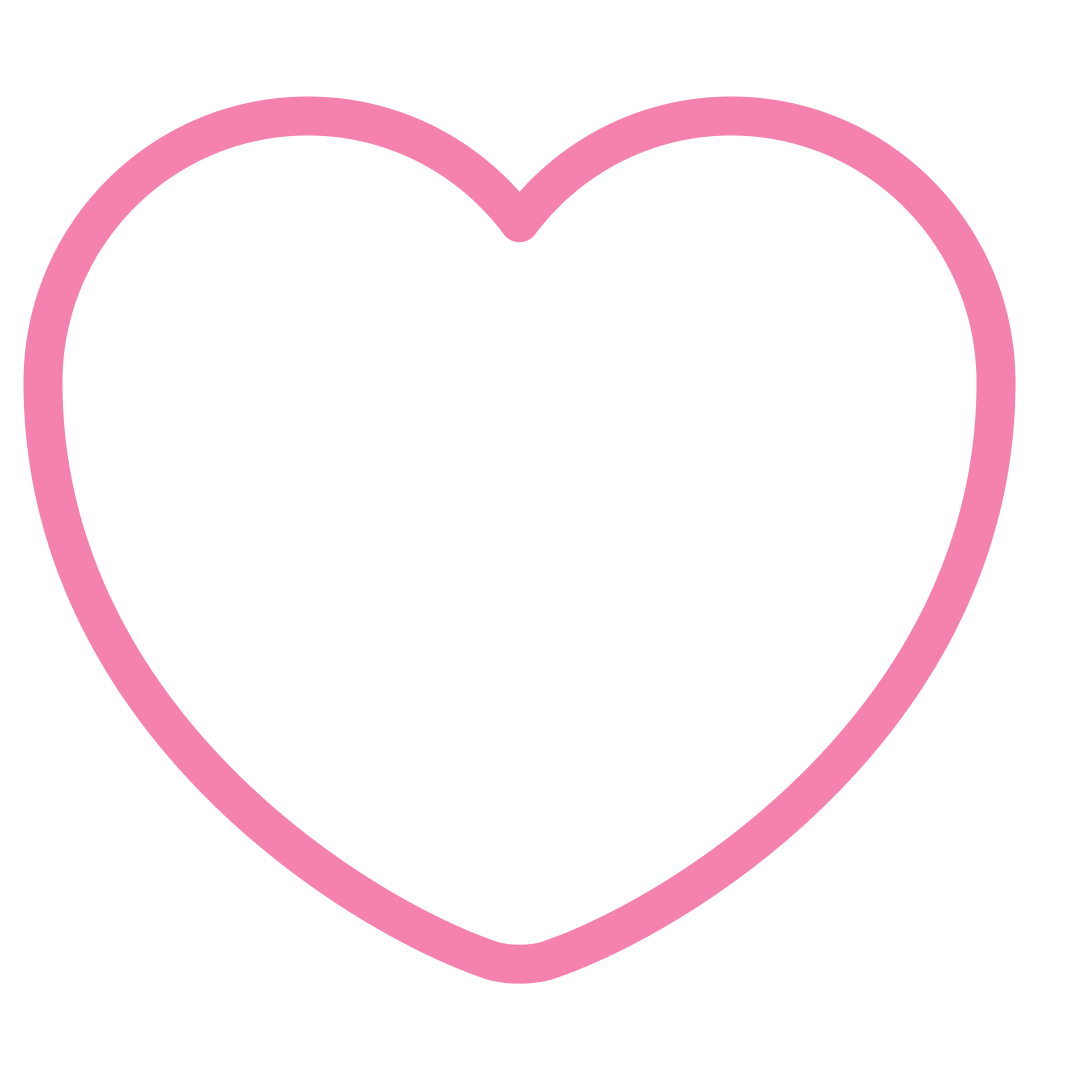
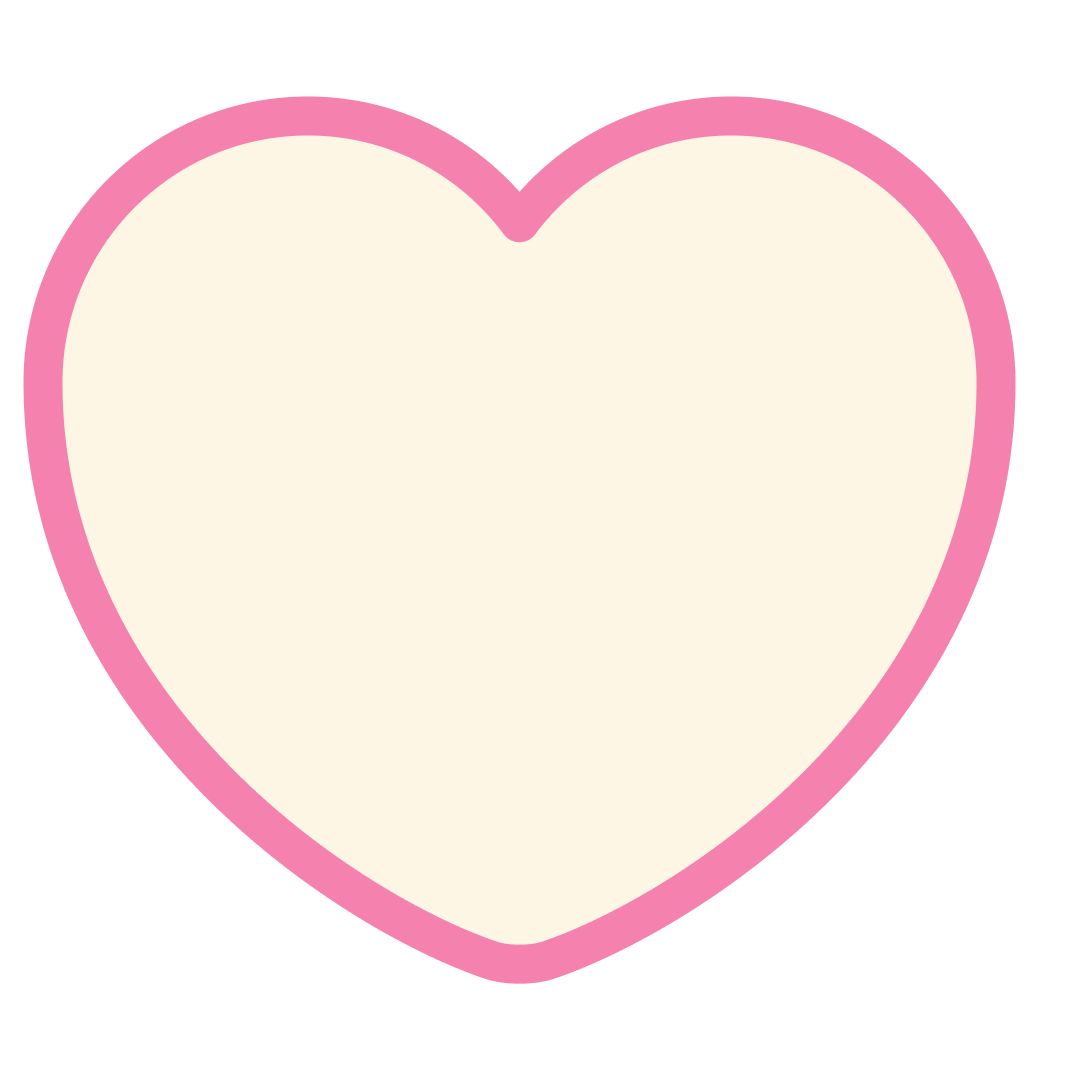
estilos likes y editar post

diff --git a/src/styles/index.css b/src/styles/index.css
@@ -263,6 +263,13 @@ li:hover {
   grid-row-end: 2;
 }
 /* --------------- feed.js 'ALL POSTS' STYLE --------------- */
+.containerPosts {
+  display: flex;
+    align-items: center;
+    justify-content: center;
+    flex-wrap: wrap;
+}
+
 .articlePost{
   display: grid;
   background-color:#fef6e4;
@@ -271,10 +278,9 @@ li:hover {
   border-radius: 8px;
   grid-template-rows: repeat(4, 1fr);
   grid-template-columns: repeat(4, 1fr) ;
-  margin-top: 15px;
-  margin-left: 30px;
   padding-top: 15px;
   box-shadow: 2px 5px 5px 0px rgba(0,24,88,0.75);
+  margin-bottom: 10px;
 }
 .imgUserPost{
   display: flex;
@@ -311,9 +317,29 @@ li:hover {
   grid-row-start: 4;
   grid-row-end: 5;
   border-radius: 0 0 8px 8px;
+  justify-content: space-between;
 }
-.btnEdit{
+.like, .dislike{
+  height: 20px;
+  background-color: transparent;
+
+}
+
+.btnLike {
+  border: none;
+  background-color: transparent;
+  
+}
+
+.likesNum {
+  background-color: transparent;
   display: flex;
+  align-items: center;
+  margin-left: 10px;
+  color: #001858;
+}
+
+.btnEdit{
   width: 35px;
   height: 20px;
   grid-column-start: 4;
@@ -324,15 +350,15 @@ li:hover {
   border: none;
 }
 .btnDelete{
-  display: flex;
   width: 35px;
   height: 20px;
   grid-column-start: 4;
   grid-column-end: 5;
   grid-row-start: 1;
   grid-row-end: 2;
-  justify-self: start;
+  justify-self: end;
   border: none;
+  margin-right: 30px;
 }
 .imgDelete {
   width: 100%;
@@ -388,8 +414,8 @@ li:hover {
   width: 75%;
   height: 70%;
   border-radius: 8px;
-  grid-template-rows: repeat(4, 1fr);
-  grid-template-columns: repeat(5, 1fr) ;
+  grid-template-rows: 20% 40% 20%;
+  grid-template-columns: 20% 20% 30% 30%;
   margin-top: 15px;
   margin-left: 30px;
   padding-top: 15px;
@@ -400,6 +426,7 @@ li:hover {
   border-radius: 50%;
   width: 35px;
   margin-left: 10px;
+  align-self: center;
   }
 .nameUserEdit{
   display: flex;
@@ -409,7 +436,8 @@ li:hover {
   grid-column-end: 4;
   grid-row-start: 1;
   grid-row-end: 2;
-  margin-top: 10px;
+  align-self: center;
+  margin-left: 5px;
 }
 .textAreaEdit{
   display: flex;
@@ -418,7 +446,7 @@ li:hover {
   grid-column-start: 1;
   grid-column-end: 5;
   grid-row-start: 2;
-  grid-row-end: 5;
+  grid-row-end: 3;
   margin: 10px 10px 10px 30px;
 }
 
@@ -431,10 +459,10 @@ li:hover {
   border: none;
   grid-column-start: 3;
   grid-column-end: 4;
-  grid-row-start: 5;
-  grid-row-end: 6;
+  grid-row-start: 3;
+  grid-row-end: 4;
   display: flex;
-  margin: 8px 6px;
+  margin: 8px 2px;
 }
 .editPostConfirm{
   background-color: #F582AE;
@@ -445,10 +473,10 @@ li:hover {
   border: none;
   grid-column-start: 4;
   grid-column-end: 5;
-  grid-row-start: 5;
-  grid-row-end: 6;
+  grid-row-start: 3;
+  grid-row-end: 4;
   display: flex;
-  margin: 8px 6px;
+  margin: 8px 2px;
   justify-content: center;
 }
 
@@ -456,9 +484,4 @@ li:hover {
 
 
 /* --------------- modal.js 'like y dislike' STYLE --------------- */
-.like{
-  height: 20px;
-}
-.dislike{
-  height: 20px;
-}
+

diff --git a/src/components/feed.js b/src/components/feed.js
@@ -144,7 +144,7 @@ export const feed = () => {
       const likesNum = document.createElement('p');
       likesNum.className = 'likesNum';
       const likeNum = postLikes.length;
-      likesNum.textContent = likeNum + 'like';
+      likesNum.textContent = likeNum + ' likes';
       const btnLike = document.createElement('button');
       btnLike.className = 'btnLike';
       btnLike.setAttribute('btnLikes', posts.id);
@@ -175,8 +175,8 @@ export const feed = () => {
       const owner = posts.data().ownerPost;
       const user2 = auth.currentUser.displayName;
       if (owner === user2) {
-        btnDelete.style.display = 'block';
-        btnEdit.style.display = 'block';
+        btnDelete.style.display = 'flex';
+        btnEdit.style.display = 'flex';
       }
       if (postLikes.includes(auth.currentUser.uid)) {
         like.style.display = 'none'
